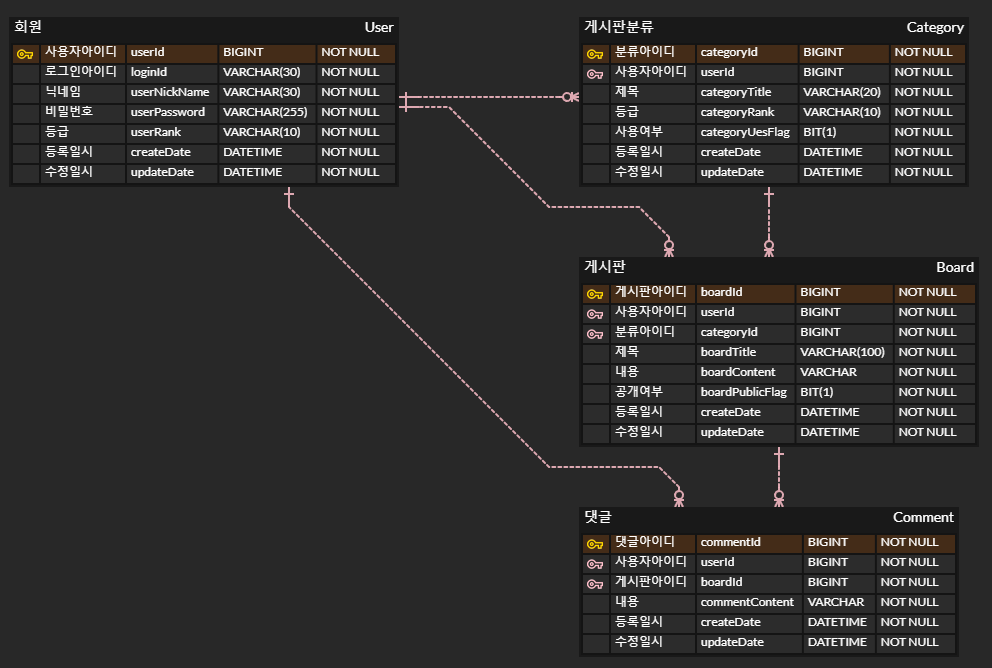
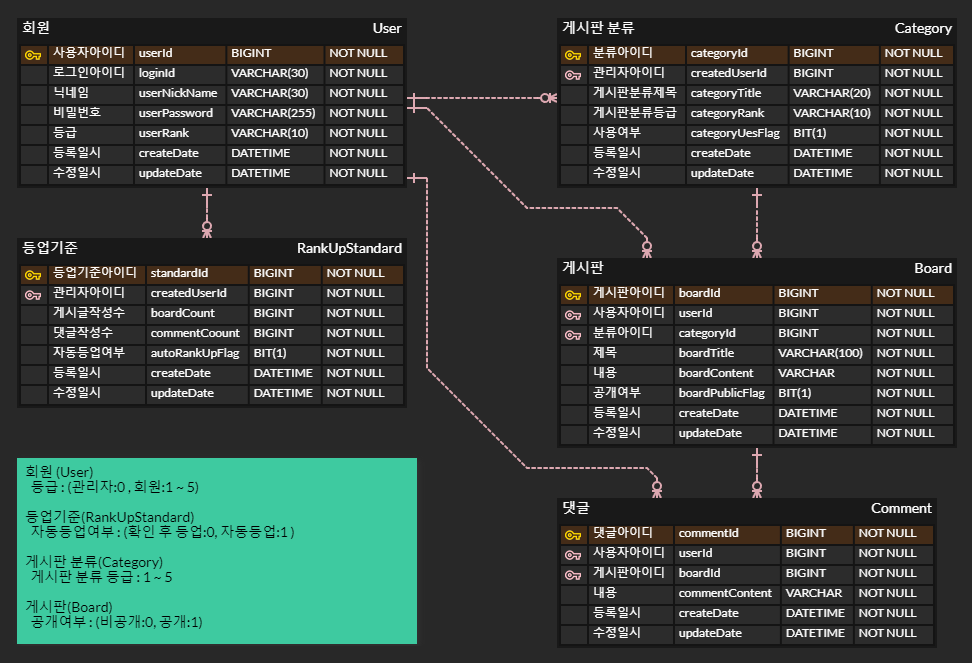
[001-DOCS] : Modify_Docs

diff --git a/README.md b/README.md
@@ -1,5 +1,5 @@
 # :clipboard: 게시판
-사용자간 소통할 수 있는 게시판 개발
+사용자간 소통할 수 있는 게시판
 
 ## 프로젝트 기간
 * 2022.05.02 ~
@@ -9,22 +9,39 @@
 ### 회원가입 :black_square_button:
 * 회원가입을 진행할 수 있다.
 * 아이디, 닉네임, 비밀번호를 입력 받는다.
+* 등급은 0부터 5까지 있으며, 0은 관리자 1부터 5까지는 회원으로 회원가입 시 1로 자동 등록된다.
+
+### 등업기준 :black_square_button:
+* 각 등업 기준을 등록한다.
+* 게시글, 댓글 등록 시 자동 등업 여부에 따라 자동으로 등업을 시키거나 관리자가 확인 후 등업 시킨다.
+
 ### 로그인 :black_square_button:
 * 아이디, 비밀번호가 일치해야 한다.
+
 ### 게시판분류 조회 :black_square_button:
 * 로그인 여부 없이 조회가 가능하다.
+
 ### 게시판분류 등록 :black_square_button:
-* 관리자가 게시판분류를 등록할 수 있다.
+* 관리자가 게시판 분류를 등록할 수 있다.
+
+### 게시글 리스트 조회 :black_square_button:
+* 로그인, 등급 여부 없이 조회가 가능하다. 단 비공개 글은 조회할 수 없다.
+* 게시글은 최신순으로 조회되고, 제목, 닉네임으로 검색할 수 있고 비공개 글은 작성자와 로그인한 아이디가 일치 시 조회된다.
+
 ### 게시글 조회 :black_square_button:
-* 로그인 여부 없이 조회가 가능하다.
-* 게시글은 최신순으로 조회 되고, 제목, 닉네임으로 검색할 수 있다.
+* 로그인을 진행 후 등급에 맞는 글의 내용을 볼 수 있다.
+
 ### 게시글 작성 :black_square_button:
 * 로그인을 진행해야 작성할 수 있다.
-* 등급에 따라 작성할 수 있다.
+* 게시판 분류에 따라 등급이 나누어져 있어서 등급에 맞게 작성할 수 있다.
+* 공개 여부를 선택할 수 있다. (공개:전체, 비공개:본인)
+
 ### 댓글 조회 :black_square_button:
 * 로그인 여부 없이 조회가 가능하다.
+
 ### 댓글 작성 :black_square_button:
 * 로그인을 진행해야 작성할 수 있다.
+
   <br>
 
 ## 사용 기술스택
